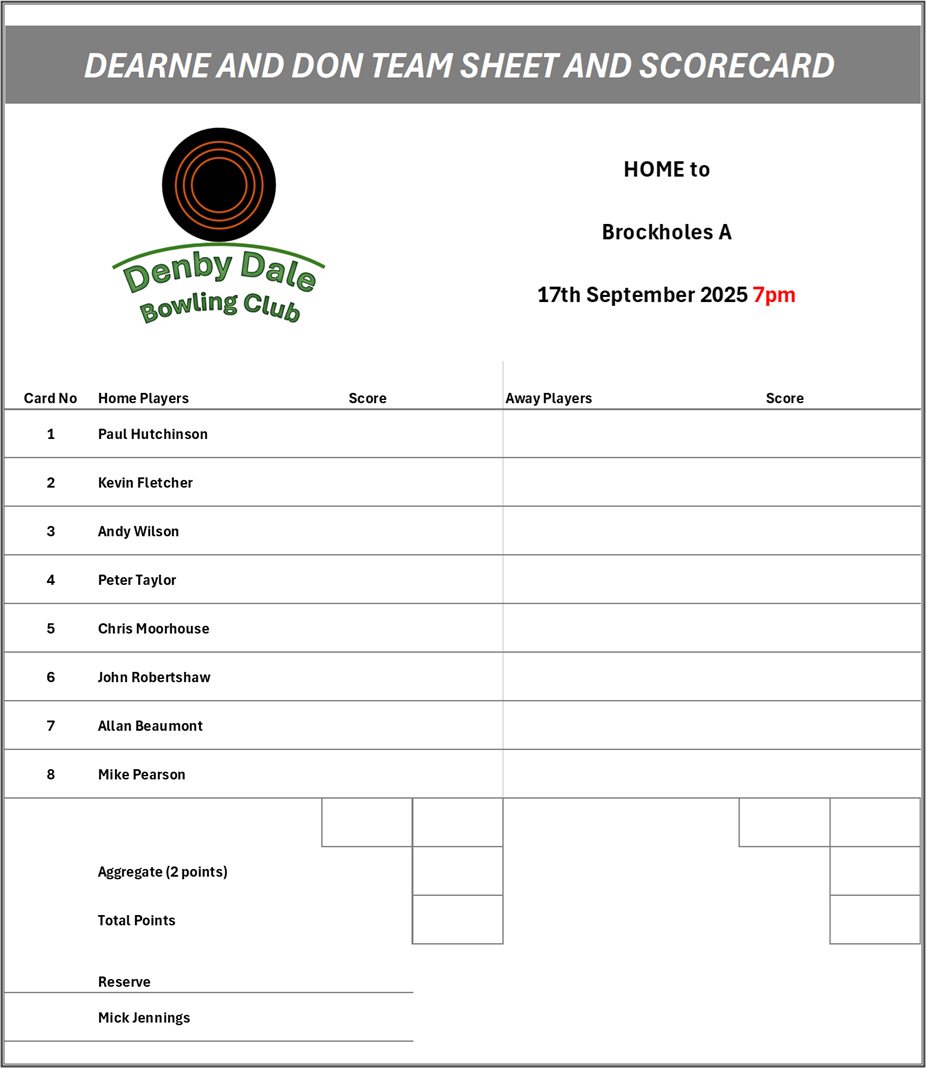
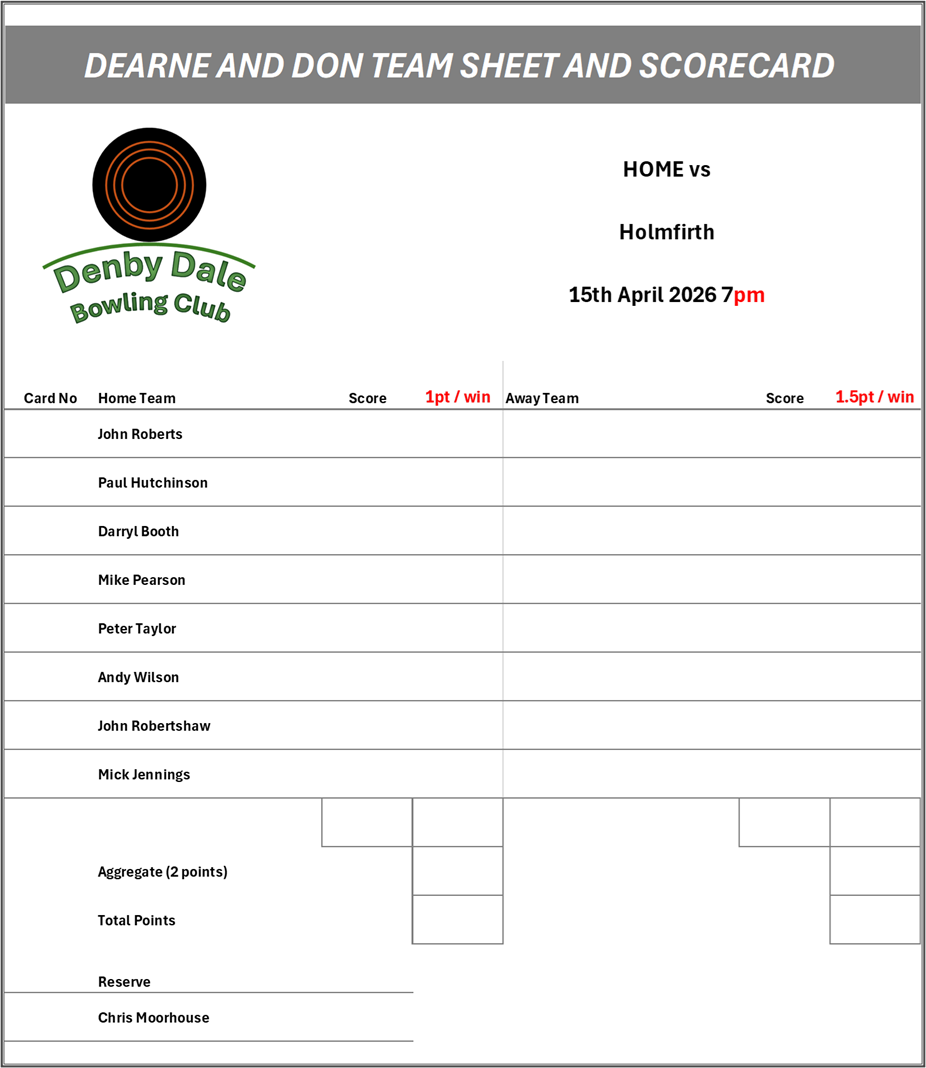
New Team Sheet

diff --git a/Dearne.htm b/Dearne.htm
@@ -42,9 +42,10 @@
             <h3>Team Selection Criteria</h3>
                 <p>
                     Dearne and Don matches are 8 singles games so 8 players are required per team. 
-                    Available players who did not play in the last game will be rotated in.
-                    The remaining places will be filled in order based on current form (average net score from the last 3 games played).
+                    Places are filled based on the "Current Form" of players, which is determined by the average net score in the previous 3 matches.
+                    Net scores are adjusted to reflect away games and also the strength of the opposition.
                 </p>
+            <img src="media/DaD/Current Form.png" alt="DDBC Dearne and Don Team Current Form">
             <img src="media/DaD/Team Sheet.png" alt="DDBC Dearne and Don Team Schedule and Availability">
 
         </div>
@@ -52,7 +53,7 @@
         <div class="item BN-Container">
             <h2>Calendar and Availability</h2>
             <p>
-                Please let Mick or Andy know of any changes using WhatsApp or email, or mark X on the sheet in the clubhouse.
+                Please let Mick or Andy know of any changes using WhatsApp or email.
             </p>
             <a href="media/DaD/Calendar and Availability.pdf" class="BN-Button" rel="noopener">Team Calendar and Availability (PDF)</a>
             <img src="media/DaD/Calendar and Availability.png" alt="DDBC Dearne and Don Team Schedule and Availability">
